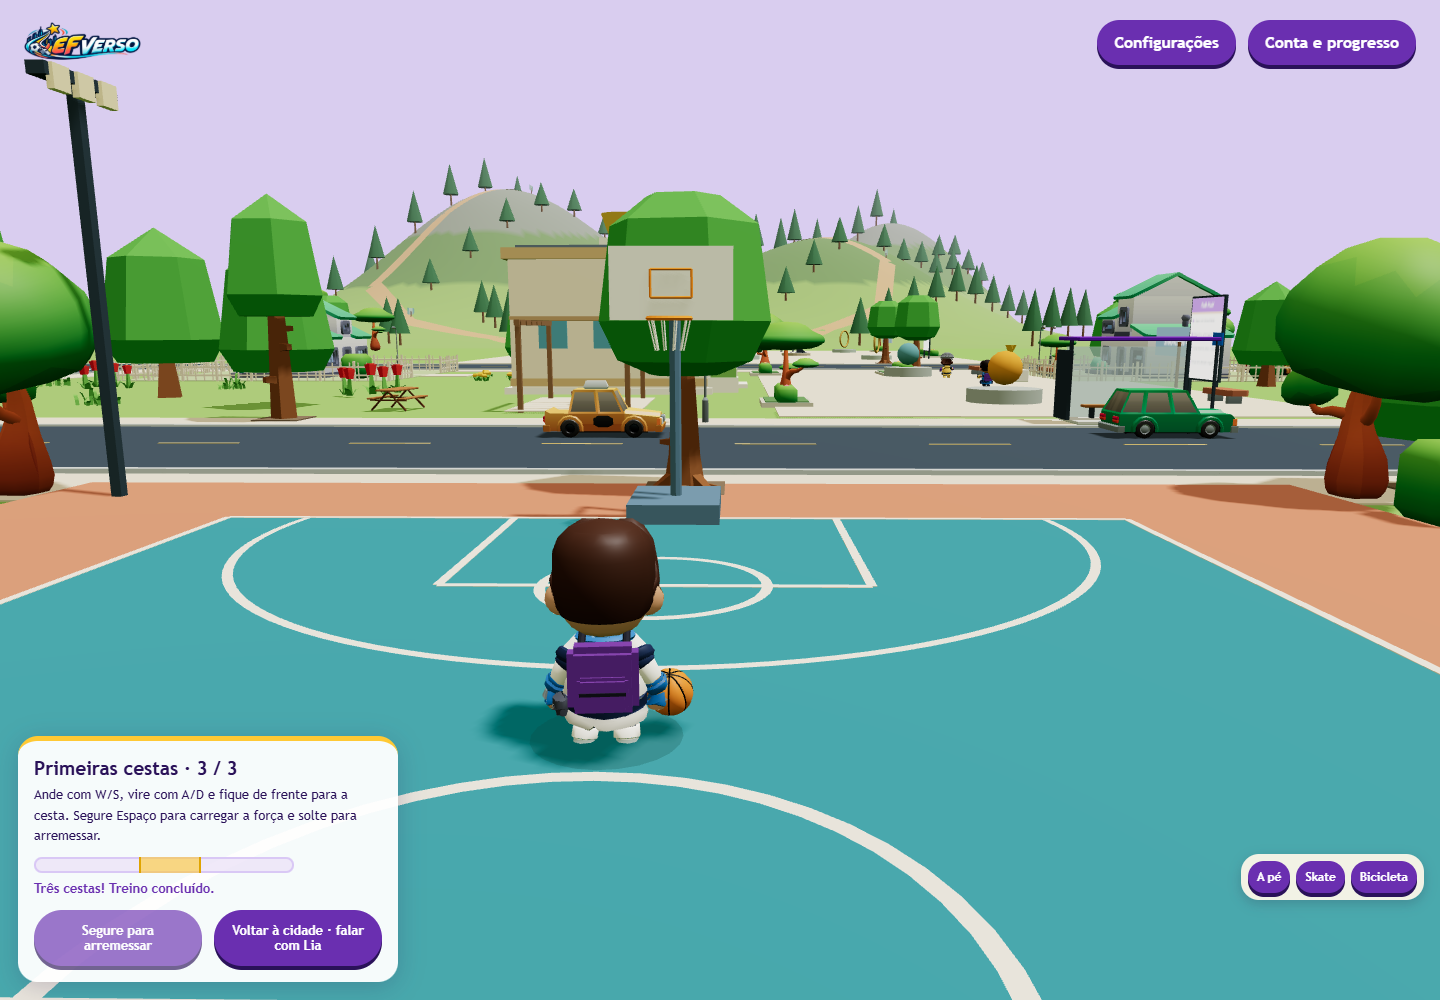
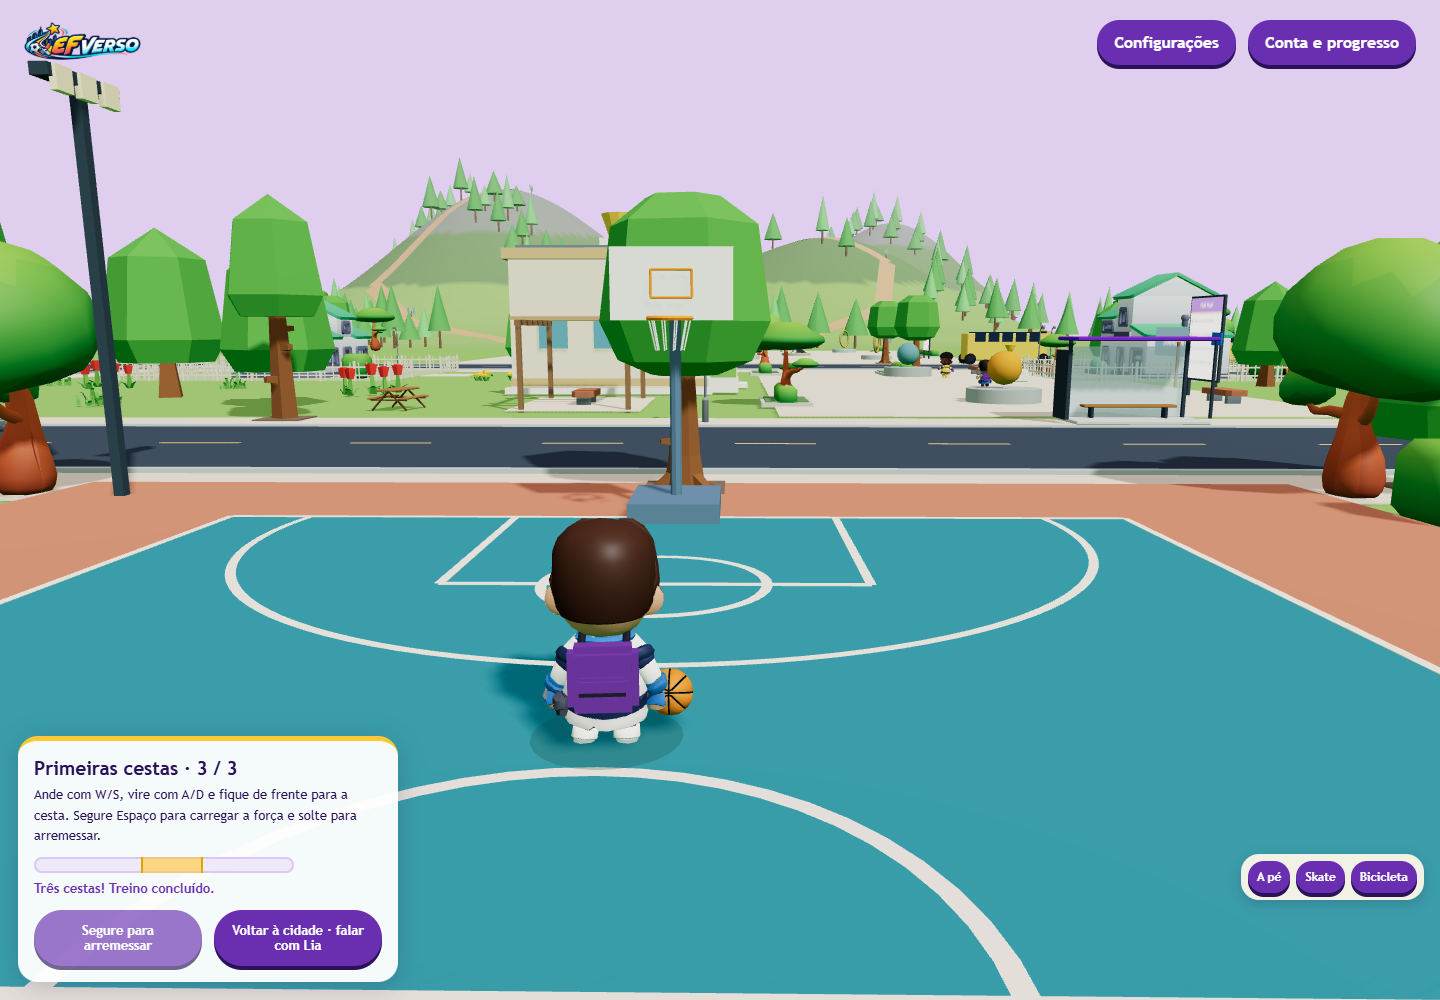
Corrige cabeça quebrada e física do basquete, suaviza o giro e adiciona estações
- student-character.js: residentAppearance() não sorteia mais cinza/roxo
  para os moradores e bots das partidas — com penteados grandes
  (crespo/cacheado) essas cores deixavam a cabeça parecendo um capacete
  liso sem rosto.
- mission.js: a bola do arremesso de basquete agora trava no ponto em
  que toca o chão (ou cai pela rede, numa cesta) em vez de continuar a
  parábola com a altura travada, "deslizando" flutuando pela quadra.
- main.js: giro da câmera em 3ª pessoa (A/D) agora acelera e desacelera
  aos poucos em vez de ligar/desligar na velocidade máxima.
- sky.js: sistema de estações do ano pelo calendário real de Brasília
  (hemisfério sul), tingindo chão/céu/neblina; adventure.js usa a
  mesma estação para tingir a folhagem da floresta.
- Vôlei, futebol, basquete e a pista de skate testados jogando de
  verdade — já funcionavam, confirmados com as cabeças corrigidas.
- Novas verificações: cor de cabelo natural (crowd.test.mjs), giro
  suave e as 4 estações (verify-city-upgrade.mjs).

diff --git a/src/main.js b/src/main.js
@@ -39,7 +39,7 @@ const sky=createSky({scene,sun,hemisphere:hemi});
 // Campo de visão mais longe: dá para ver prédios e a montanha de longe em vez de sumirem na neblina perto.
 const iso=new T.PerspectiveCamera(42,innerWidth/innerHeight,.3,650),third=new T.PerspectiveCamera(55,innerWidth/innerHeight,.1,550);
 let zoom=1,thirdDistance=6;
-let mode='iso',yaw=0,active=iso,thirdPitch=.07,ready=false,navigation,nearest=null,nearbyResident=null,route=[],running=false,verticalSpeed=0,elapsed=0,avatar,mission,customizer,crowd,skaters,ambient,hoopsMatch,soccerMatch,volleyMatch,skateMatch,onboarding,theory,travel,traffic,adventure,cloud,skateCenter=null;
+let mode='iso',yaw=0,active=iso,thirdPitch=.07,yawRate=0,ready=false,navigation,nearest=null,nearbyResident=null,route=[],running=false,verticalSpeed=0,elapsed=0,avatar,mission,customizer,crowd,skaters,ambient,hoopsMatch,soccerMatch,volleyMatch,skateMatch,onboarding,theory,travel,traffic,adventure,cloud,skateCenter=null;
 // Enquanto anda de skate/bicicleta e está dentro da área da pista, o relevo segue a pista de verdade
 // (rampas, bowl) em vez do chão genérico — permite rolar pelas rampas de skate/bike na exploração.
 function groundHeight(x,z,riding){
@@ -137,7 +137,7 @@ const clock=new T.Clock();let lastMap=0;
 function frame(){requestAnimationFrame(frame);const dt=Math.min(clock.getDelta(),.05);elapsed+=dt;
  sky.update(dt,player.position);
  if(!canLook()&&document.pointerLockElement)document.exitPointerLock();
- travel?.update(avatar,0);traffic?.update(dt,player.position,document.hidden||onboarding?.active||settings.isOpen);adventure?.update(player.position,travel?.mode);
+ travel?.update(avatar,0);traffic?.update(dt,player.position,document.hidden||onboarding?.active||settings.isOpen);adventure?.update(player.position,travel?.mode,sky.season);
  crowd?.update(dt,player.position,{paused:dialog.open||customizer?.isOpen||mission?.locked||hoopsMatch?.active||soccerMatch?.active||volleyMatch?.active||skateMatch?.active||onboarding?.active||theory?.active||frontView,overview:flight.enabled});skaters?.update(dt,player.position,flight.enabled);ambient?.update(dt,player.position);
  if(hoopsMatch?.active){labels.forEach(o=>o.visible=false);hoopsMatch.update(dt);renderer.render(scene,hoopsMatch.camera);return;}
  if(soccerMatch?.active){labels.forEach(o=>o.visible=false);soccerMatch.update(dt);renderer.render(scene,soccerMatch.camera);return;}
@@ -148,7 +148,13 @@ function frame(){requestAnimationFrame(frame);const dt=Math.min(clock.getDelta()
  if(ready&&!dialog.open&&!mission?.locked&&!customizer?.isOpen&&!onboarding?.active&&!theory?.active&&!frontView&&!settings.isOpen&&!cloud.isOpen){const ground=groundHeight(player.position.x,player.position.z,travel?.mode!=='walk'),grounded=player.position.y<=ground+.02&&verticalSpeed<=0;verticalSpeed-=22*dt;player.position.y=Math.max(ground,player.position.y+verticalSpeed*dt);if(player.position.y<=ground)verticalSpeed=0;shadow.position.y=ground+.19-player.position.y;
   let sx=Number(settings.pressed(keys,'right')||keys.has('arrowright'))-Number(settings.pressed(keys,'left')||keys.has('arrowleft'))+touch.x,sy=Number(settings.pressed(keys,'back')||keys.has('arrowdown'))-Number(settings.pressed(keys,'forward')||keys.has('arrowup'))+touch.y;
   // Third person: A/D (or the joystick sideways) turn the student and the camera; W/S walk forward and back.
-  if(mode==='third'&&sx&&!settings.value.strafe){yaw-=sx*2.6*dt;if(sx)route=[];sx=0;}
+  // Giro suave: a velocidade de giro acompanha A/D aos poucos (acelera e, ao soltar, desacelera) em vez
+  // de ligar/desligar de uma vez, pra não parecer um "tique" brusco de câmera.
+  if(mode==='third'&&!settings.value.strafe){
+   const targetYawRate=sx*2.6;yawRate+=(targetYawRate-yawRate)*Math.min(1,dt*9);
+   if(Math.abs(yawRate)>.002){yaw-=yawRate*dt;route=[];}
+   sx=0;
+  }else yawRate=0;
   let dx=sx*Math.cos(yaw)+sy*Math.sin(yaw),dz=-sx*Math.sin(yaw)+sy*Math.cos(yaw);if(sx||sy)route=[];
   if(route.length){const p=route[0];dx=p.x-player.position.x;dz=p.z-player.position.z;if(Math.hypot(dx,dz)<.3){route.shift();if(!route.length)$('#status').textContent='Você chegou. Explore o marcador próximo.';}}
   const len=Math.hypot(dx,dz),riding=travel?.mode!=='walk'&&!route.length;
@@ -197,5 +203,5 @@ buildCity({scene,loader:new GLTFLoader(),solids}).then(async audit=>{
  if(import.meta.env.DEV)window.questReview={wallet:()=>({coins:wallet.coins,badges:wallet.badges}),soccerScore:()=>soccerMatch.score,volleyScore:()=>volleyMatch.score};
  if(import.meta.env.DEV)window.travelReview={traffic:()=>traffic.snapshot(),mode:()=>travel.mode,select:mode=>travel.select(mode),adventure:()=>adventure.snapshot,camera:()=>({mode,yaw,pitch:thirdPitch,avatarVisible:avatar.visual.visible}),avatar:()=>avatar.visual,settings:()=>settings.value};
  if(import.meta.env.DEV)window.skateReview={terrainHeight:skateMatch._terrainHeight,active:()=>skateMatch.active,state:()=>skateMatch._ride()?.state,enter:()=>skateMatch.start(),leave:()=>skateMatch.leave()};
- if(import.meta.env.DEV)window.skyReview={hour:()=>sky.hour,setHour:h=>sky.setHourOverride(h),background:()=>'#'+scene.background.getHexString(),sunIntensity:()=>sun.intensity,hemiIntensity:()=>hemi.intensity};
+ if(import.meta.env.DEV)window.skyReview={hour:()=>sky.hour,setHour:h=>sky.setHourOverride(h),background:()=>'#'+scene.background.getHexString(),sunIntensity:()=>sun.intensity,hemiIntensity:()=>hemi.intensity,season:()=>sky.season,seasonName:()=>sky.seasonName,setSeason:s=>sky.setSeasonOverride(s),groundColor:()=>'#'+hemi.groundColor.getHexString()};
 }).catch(error=>{console.error(error);$('#status').textContent='Falha ao carregar a cidade. Recarregue a página.';window.cityReady=true;window.cityStats=()=>({failures:1});});

diff --git a/src/sky.js b/src/sky.js
@@ -11,6 +11,28 @@ function brasiliaHour() {
  return (+p.hour) + (+p.minute) / 60 + (+p.second) / 3600;
 }
 
+// Estações pelo calendário do hemisfério sul (Brasília): verão começa perto do ano-novo, não de julho.
+export const SEASON_NAMES = ['Verão', 'Outono', 'Inverno', 'Primavera'];
+function brasiliaDate() {
+ const fmt = new Intl.DateTimeFormat('en-US', {timeZone: 'America/Sao_Paulo', month: '2-digit', day: '2-digit'});
+ const p = Object.fromEntries(fmt.formatToParts(new Date()).map(x => [x.type, x.value]));
+ return +p.month * 100 + +p.day;
+}
+function seasonFor(monthDay) {
+ if (monthDay >= 1221 || monthDay < 321) return 0; // Verão
+ if (monthDay < 621) return 1; // Outono
+ if (monthDay < 923) return 2; // Inverno
+ return 3; // Primavera
+}
+// Tons de dia por estação: verão dourado/verde forte, outono alaranjado, inverno pálido/azulado,
+// primavera viçosa — aplicados ao chão do hemisfério e como um leve tingimento do céu/neblina (o
+// ciclo dia/noite continua mandando na cor; a estação só dá um sotaque).
+const SEASON_GROUND = ['#6f8a4e', '#9c6a3c', '#6e7568', '#5fab5a'].map(c => new T.Color(c));
+const SEASON_HEMI = [0xfff6e0, 0xffe9c2, 0xeaf0fb, 0xfbf6ff].map(c => new T.Color(c));
+const SEASON_ACCENT = ['#ffcf7a', '#d98a3d', '#bcd3e8', '#ffd7ea'];
+export const SEASON_LEAF = ['#467750', '#b5652c', '#5f6f5a', '#5fae5a'];
+export const SEASON_LEAF2 = ['#5a9159', '#d98a3d', '#78867c', '#78cf78'];
+
 function lerpColor(a, b, t) {
  return new T.Color(a).lerp(new T.Color(b), T.MathUtils.clamp(t, 0, 1));
 }
@@ -51,15 +73,15 @@ export function createSky({scene, sun, hemisphere}) {
  const sunDisc = disc('#fff3c4', 26), moonDisc = disc('#e6ecf5', 18);
  scene.add(stars, sunDisc, moonDisc);
  const sunBaseIntensity = sun.intensity, hemiBaseIntensity = hemisphere.intensity;
- const dayHemi = new T.Color(0xfff6e0), nightHemi = new T.Color(0x24345c);
- const dayGround = new T.Color(0x6f8a4e), nightGround = new T.Color(0x11182c);
- let hour = brasiliaHour(), lastSync = 0, override = null;
+ const nightHemi = new T.Color(0x24345c), nightGround = new T.Color(0x11182c);
+ let hour = brasiliaHour(), season = seasonFor(brasiliaDate()), seasonOverride = null, lastSync = 0, override = null;
  function update(dt, player) {
   if (override !== null) hour = override;
   else {
    lastSync += dt;
-   if (lastSync > 5) {lastSync = 0; hour = brasiliaHour();} else hour = (hour + dt / 3600) % 24;
+   if (lastSync > 5) {lastSync = 0; hour = brasiliaHour(); if (seasonOverride === null) season = seasonFor(brasiliaDate());} else hour = (hour + dt / 3600) % 24;
   }
+  if (seasonOverride !== null) season = seasonOverride;
   const theta = ((hour - 6) / 24) * Math.PI * 2;
   const sunDir = new T.Vector3(Math.cos(theta), Math.sin(theta), .42).normalize();
   const moonDir = sunDir.clone().multiplyScalar(-1);
@@ -77,14 +99,15 @@ export function createSky({scene, sun, hemisphere}) {
   sun.intensity = sunBaseIntensity * T.MathUtils.clamp(elevation / .3 + .15, .04, 1);
   sun.color.set(elevation < .15 ? lerpColor('#ffd9a0', '#ffffff', T.MathUtils.clamp(elevation / .15, 0, 1)) : '#ffffff');
   hemisphere.intensity = T.MathUtils.lerp(hemiBaseIntensity * .22, hemiBaseIntensity, 1 - night);
-  hemisphere.color.copy(nightHemi).lerp(dayHemi, 1 - night);
-  hemisphere.groundColor.copy(nightGround).lerp(dayGround, 1 - night);
-  const sky = skyColor(elevation);
+  hemisphere.color.copy(nightHemi).lerp(SEASON_HEMI[season], 1 - night);
+  hemisphere.groundColor.copy(nightGround).lerp(SEASON_GROUND[season], 1 - night);
+  const sky = skyColor(elevation).lerp(new T.Color(SEASON_ACCENT[season]), .14 * (1 - night));
   scene.background = sky;
   if (scene.fog) scene.fog.color.copy(sky);
   stars.material.opacity = night * .9;
   stars.position.copy(player);
  }
  update(0, new T.Vector3());
- return {update, get hour() {return hour;}, setHourOverride(h) {override = h;}};
+ return {update, get hour() {return hour;}, setHourOverride(h) {override = h;},
+  get season() {return season;}, get seasonName() {return SEASON_NAMES[season];}, setSeasonOverride(s) {seasonOverride = s; if (s !== null) season = s;}};
 }

diff --git a/src/mission.js b/src/mission.js
@@ -22,7 +22,7 @@ export async function createMission({scene,loader,player,solids,hoop,progress,wa
  <div class="power-meter" id="power-meter" role="meter" aria-label="Força do arremesso" aria-valuemin="0" aria-valuemax="100" aria-valuenow="0"><span class="power-zone" id="power-zone"></span><span class="power-fill" id="power-fill"></span></div>
  <p class="shot-feedback" id="shot-feedback" role="status" aria-live="polite"></p><div class="shot-buttons"><button id="shoot">Segure para arremessar</button><button id="leave-court"></button></div>`;
  document.body.append(panel);
- let practicing=false,shot=null,shotTime=0,resolved=false,throwTime=0,replayHits=0,localAttempts=0,acceptAction=null,charging=false,charge=0,moving=false,dribble=0,result=null,launch=null;
+ let practicing=false,shot=null,shotTime=0,resolved=false,throwTime=0,replayHits=0,localAttempts=0,acceptAction=null,charging=false,charge=0,moving=false,dribble=0,result=null,launch=null,landed=null;
  const last=new T.Vector3();
  const state=()=>progress.state;
  const total=()=>state().stage==='complete'?replayHits:state().baskets;
@@ -73,7 +73,7 @@ export async function createMission({scene,loader,player,solids,hoop,progress,wa
  }
  function launchBall(){
   const hand=rightHand(),start={x:hand.x,y:hand.y+.1,z:hand.z};
-  shot=throwShot(start,hoop,forward(),launch.power);result=rimCrossing(shot,hoop,RIM);launch=null;shotTime=0;resolved=false;localAttempts++;feedback('Bola no ar…');
+  shot=throwShot(start,hoop,forward(),launch.power);result=rimCrossing(shot,hoop,RIM);launch=null;shotTime=0;resolved=false;landed=null;localAttempts++;feedback('Bola no ar…');
  }
  const shootButton=$('#shoot');
  shootButton.onpointerdown=e=>{e.preventDefault();try{shootButton.setPointerCapture(e.pointerId);}catch{}beginCharge();};shootButton.onpointerup=shootButton.onpointercancel=()=>release();
@@ -102,7 +102,11 @@ export async function createMission({scene,loader,player,solids,hoop,progress,wa
    return;
   }
   if(paused||document.hidden)return;
-  shotTime+=dt;const p=shotPosition(shot,shotTime);ballRoot.position.set(p.x,Math.max(.4,p.y),p.z);ballRoot.rotation.z-=dt*5;
+  shotTime+=dt;
+  // Depois de chegar ao chão (ou ao fundo da rede, numa cesta), a bola para ali — antes, ela seguia a
+  // parábola pura mesmo com a altura travada em .4, então "deslizava" flutuando pela quadra até o fim
+  // da janela de 2,4 s em vez de parar onde caiu.
+  if(!landed){const p=shotPosition(shot,shotTime);if(p.y<=.4){landed={x:p.x,y:.4,z:p.z};ballRoot.position.set(landed.x,landed.y,landed.z);}else{ballRoot.position.set(p.x,p.y,p.z);ballRoot.rotation.z-=dt*5;}}
   if(!resolved&&shotTime>=result.time){
    resolved=true;if(state().stage==='court')dispatch({type:'shot',scored:result.scored});else if(result.scored)replayHits++;
    $('#basket-count').textContent=`${total()} / 3`;

diff --git a/src/adventure.js b/src/adventure.js
@@ -1,4 +1,5 @@
 import * as T from 'three';
+import {SEASON_LEAF,SEASON_LEAF2} from './sky.js';
 export const ADVENTURE_BOUNDS={minX:174,maxX:312,minZ:-108,maxZ:88};
 export const canExplore=(x,z)=>Math.abs(x)<=172&&Math.abs(z)<=172||(x>=170&&x<=312&&z>=-108&&z<=88);
 export const adventureHeight=(x,z)=>{
@@ -69,6 +70,9 @@ export function createAdventure({scene}){
   const post=new T.Mesh(new T.CylinderGeometry(.07,.09,2,8),new T.MeshStandardMaterial({color:'#805942'}));post.position.set(CAMP.x+9,fireY+1,CAMP.z-7);group.add(post);
   milestones.push({x:CAMP.x+9,z:CAMP.z-7,name:'Acampamento da Serra'});}
  const readout=document.createElement('div');readout.className='adventure-readout';readout.hidden=true;document.body.append(readout);
- const visited=new Set();
- return {height:adventureHeight,update(pos,mode){readout.hidden=pos.x<174||pos.x>312||pos.z< -108||pos.z>88;if(readout.hidden)return;for(const m of milestones)if(Math.hypot(pos.x-m.x,pos.z-m.z)<5)visited.add(m.name);readout.textContent=`Parque de Aventura · ${Math.round(pos.y)} m · ${mode==='bike'?'Mountain bike':'Trilha / trekking'} · ${visited.size}/${milestones.length} pontos explorados`;},get snapshot(){return {visited:[...visited],milestones};}};
+ const visited=new Set();let lastSeason=-1;
+ return {height:adventureHeight,update(pos,mode,season){
+  if(season!==undefined&&season!==lastSeason){lastSeason=season;leafMat.color.set(SEASON_LEAF[season]);leafMat2.color.set(SEASON_LEAF2[season]);}
+  readout.hidden=pos.x<174||pos.x>312||pos.z< -108||pos.z>88;if(readout.hidden)return;for(const m of milestones)if(Math.hypot(pos.x-m.x,pos.z-m.z)<5)visited.add(m.name);readout.textContent=`Parque de Aventura · ${Math.round(pos.y)} m · ${mode==='bike'?'Mountain bike':'Trilha / trekking'} · ${visited.size}/${milestones.length} pontos explorados`;
+ },get snapshot(){return {visited:[...visited],milestones};}};
 }

diff --git a/src/student-character.js b/src/student-character.js
@@ -60,9 +60,13 @@ export function readAppearance(){try{return normalizeAppearance(JSON.parse(local
 /** Aparência variada e determinística para os moradores: crianças, adultos e acessibilidade. */
 export function residentAppearance(index){
  const adult=index%3===2,pick=(list,k)=>list[(index*k)%list.length],P=PALETTES;
+ // Só as 5 primeiras cores (castanhos/preto) entram no sorteio automático: as duas últimas (cinza,
+ // roxo) ficam só para quem escolhe no guarda-roupa — num penteado grande (crespo/cacheado), que cobre
+ // quase a cabeça toda com bolhas sem padrão de fio, uma cor lisa e fria "apaga" o rosto e parece um
+ // capacete quebrado em vez de cabelo.
  return {adult,look:{tone:pick(PARTS.tone,3),head:adult&&index%2?pick(ADULT_HEADS,1):pick(STUDENT_HEADS,5),body:adult?pick([...ADULT_BODIES,...STUDENT_BODIES],3):pick(STUDENT_BODIES,7),
   glasses:index%5===0?'acc_glasses':index%11===4?'acc_sunglasses':'none',hearing:index%9===3?'acc_hearing':'none',accessory:!adult&&index%2===0?'acc_backpack':'none',mobility:index%10===6?'acc_wheelchair':'none',
-  hairColor:pick(P.hairColor.slice(0,6),5),shirt:pick(P.shirt,3),accent:pick(P.accent,5),pants:pick(P.pants,7),shoes:pick(P.shoes,3),accessoryColor:pick(P.accessoryColor,1)}};
+  hairColor:pick(P.hairColor.slice(0,5),5),shirt:pick(P.shirt,3),accent:pick(P.accent,5),pants:pick(P.pants,7),shoes:pick(P.shoes,3),accessoryColor:pick(P.accessoryColor,1)}};
 }
 // Recoloração por bloco do atlas, no fragment shader (o mesmo programa para todos os alunos).
 function recolorable(material,atlas){

diff --git a/README.md b/README.md
@@ -4,6 +4,20 @@ Execute `npm install` e `npm run dev` nesta pasta. Abra o endereço mostrado pel
 
 No celular, use o endereço de rede exibido pelo Vite, com computador e celular na mesma rede. O firewall do computador precisa permitir a conexão. Não é necessário instalar aplicativo no celular.
 
+## Cabeça quebrada corrigida, física do basquete, giro suave e estações do ano — 28/10/2026 (madrugada)
+
+**Cabeça "capacete cinza" dos moradores/bots corrigida** (`src/student-character.js`). Com os penteados grandes (crespo/cacheado, que cobrem quase a cabeça toda com cachos sem fio visível), duas das sete cores de cabelo do sorteio automático — cinza e roxo, pensadas para quem escolhe no guarda-roupa — deixavam o personagem parecendo careca com um capacete liso, sem rosto visível. Moradores e os bots das partidas (basquete, vôlei, futebol) agora só sorteiam as 5 cores naturais; cinza e roxo continuam disponíveis para quem quiser em "Meu personagem".
+
+**Física do arremesso de basquete corrigida** (`src/mission.js`). Depois que a bola cruzava o aro (ou errava), ela continuava seguindo a parábola pura com a altura travada no chão — ou seja, "deslizava" flutuando pela quadra feito um disco até o fim da animação, em vez de parar onde caiu. Agora a bola trava no ponto exato em que toca o chão (ou cai pela rede, numa cesta), como um arremesso de verdade.
+
+**Giro da câmera em 3ª pessoa ficou suave.** A/D viravam o personagem "ligando" na velocidade máxima na hora e travando ao soltar. Agora o giro acelera aos poucos ao segurar e desacelera aos poucos ao soltar, como no deslize do skate/bike.
+
+**Sistema de estações do ano**, pelo calendário real de Brasília (`src/sky.js`): verão, outono, inverno e primavera (no hemisfério sul — verão em torno do ano-novo, não de julho) tingem o chão, o céu/neblina e a folhagem da floresta do Parque de Aventura (`src/adventure.js`) de cores próprias — verde forte no verão, laranja no outono, tons pálidos/azulados no inverno, verde viçoso na primavera — por cima do ciclo dia/noite já existente.
+
+**Vôlei e os outros esportes revisados.** O jogo de vôlei 3x3 (`src/volley-match.js`) já existia e foi testado jogando de verdade (saque, rebatida, ponto); basquete, futebol e a pista de skate também foram conferidos em partida — todos funcionando, com as cabeças corrigidas.
+
+Verificação: `node tools/crowd.test.mjs` (cor de cabelo natural para moradores/bots), `node tools/verify-mission.mjs` (física do arremesso), `node tools/verify-city-upgrade.mjs` (giro suave e as 4 estações), e os demais `verify-*.mjs`/`*.test.mjs` continuam cobrindo o resto.
+
 ## Céu dia/noite, mais trânsito, skate/bike com embalo e acampamento — 28/10/2026 (noite)
 
 **Céu de verdade, no horário de Brasília** (`src/sky.js`). O jogo consulta o relógio real (fuso `America/Sao_Paulo`, sem precisar saber o fuso do jogador) e muda a cor do céu/neblina, a posição e intensidade do sol, e acende a lua e um campo de estrelas à noite — tudo contínuo ao longo do dia, não só dois estados. A luz do sol (que já seguia o aluno para a sombra) agora também gira de direção. Campo de visão bem mais longe (neblina de 140–460 m, câmeras com alcance de até 650 m) para dar pra ver a cidade e a montanha de longe.
